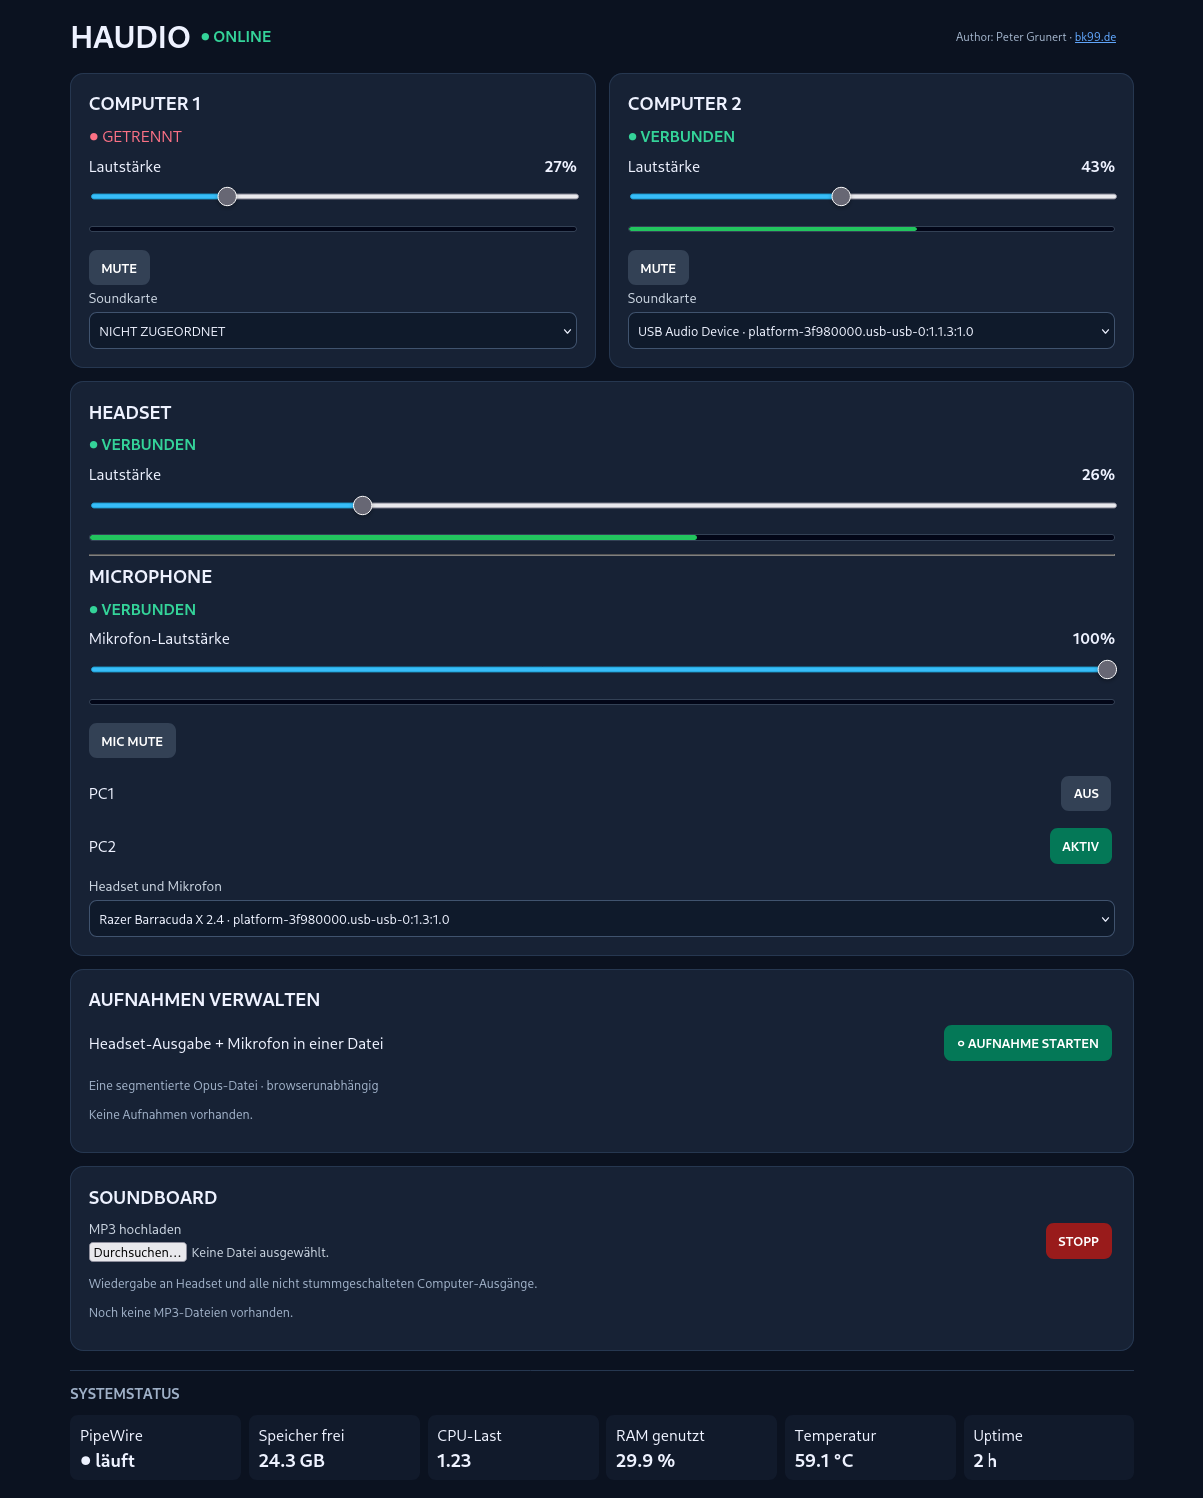
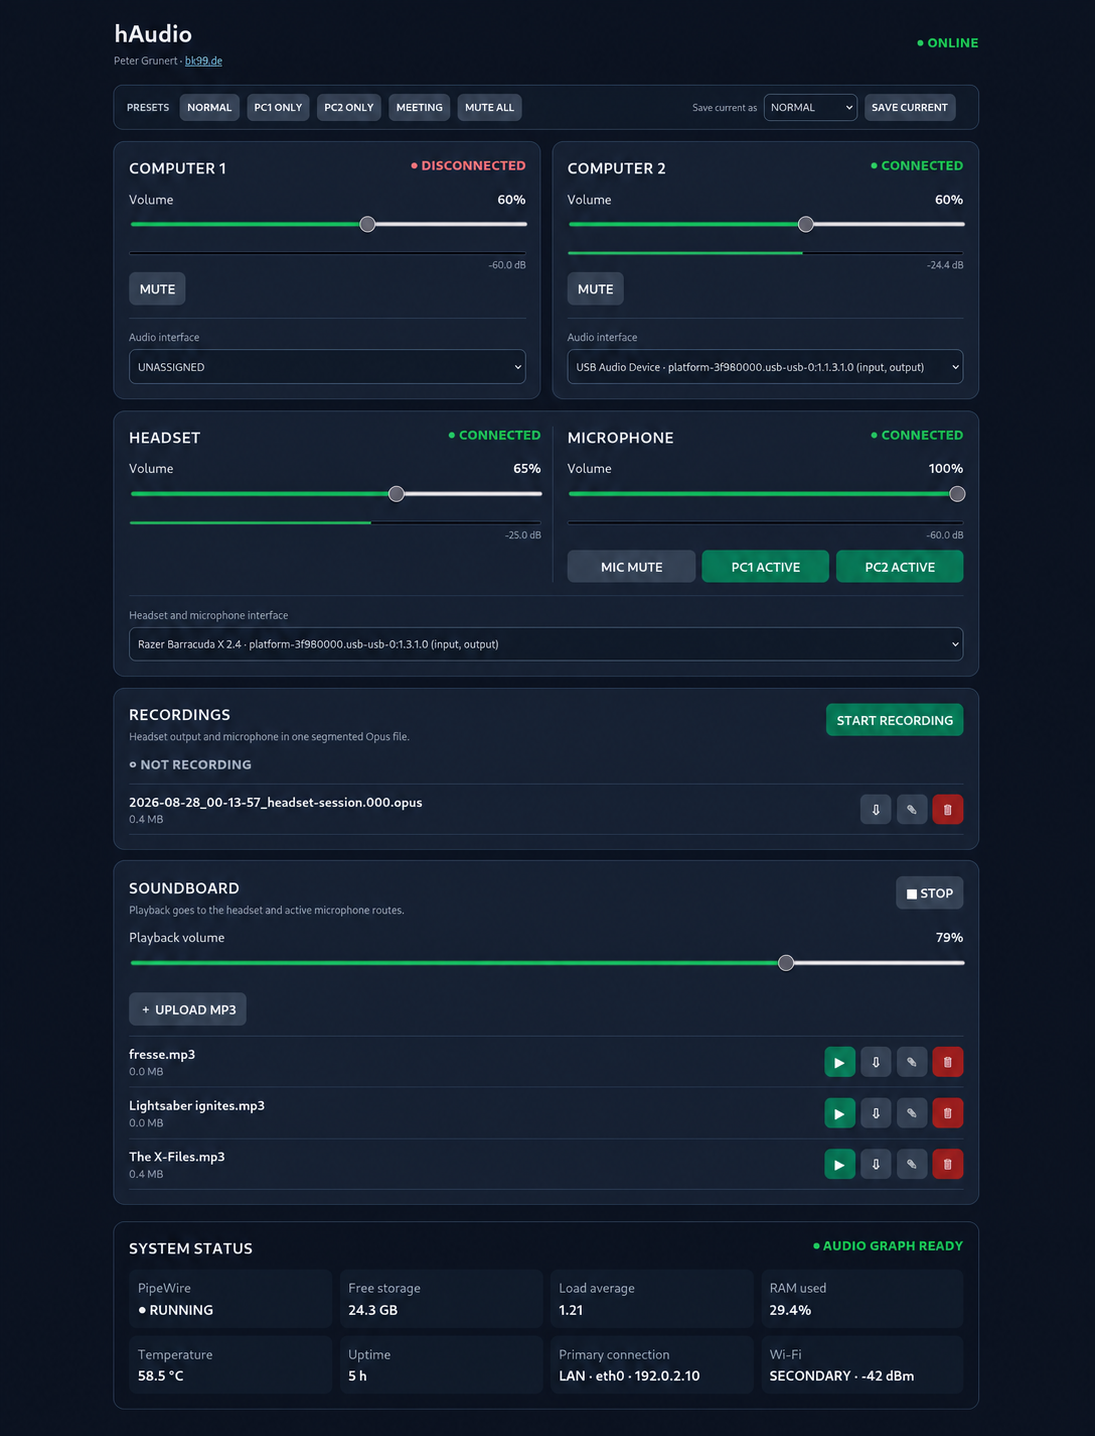
Polish release documentation and live media status

diff --git a/tests/test_haudio.py b/tests/test_haudio.py
@@ -1,3 +1,4 @@
+import asyncio
 import json
 import sys
 from pathlib import Path
@@ -9,7 +10,7 @@ PROJECT_ROOT = Path(__file__).parents[1]
 APP_ROOT = PROJECT_ROOT / "opt" / "haudio"
 sys.path.insert(0, str(APP_ROOT))
 
-from haudio.app import create_app  # noqa: E402
+from haudio.app import Runtime, create_app  # noqa: E402
 from haudio.audio import AudioController, CommandResult  # noqa: E402
 from haudio.config import Config  # noqa: E402
 from haudio.media import valid_recording_filename, valid_sound_filename  # noqa: E402
@@ -129,8 +130,11 @@ class FakeAudio:
 
 
 class FakeMedia:
+    def __init__(self):
+        self.soundboard = {"playing": "", "active": False, "volume": 100}
+
     def soundboard_status(self):
-        return {"playing": "", "active": False, "volume": 100}
+        return dict(self.soundboard)
 
     def recording_active(self):
         return False
@@ -303,6 +307,24 @@ def test_frontend_is_complete_and_uses_stable_dom_updates(tmp_path):
         assert javascript.status_code == 200
         assert "innerHTML" not in javascript.text
         assert "connectWebSocket" in javascript.text
+        assert 'class="button" type="button" aria-pressed="false">■ STOP' in index.text
+        assert "soundboardStop.classList.toggle('danger', soundboardActive)" in javascript.text
+
+
+def test_live_status_uses_actual_soundboard_process_state(tmp_path):
+    config = Config(
+        state_dir=tmp_path / "state", recording_dir=tmp_path / "recordings",
+        soundboard_dir=tmp_path / "sounds", frontend_dir=APP_ROOT / "frontend",
+    )
+    store = StateStore(config.state_file)
+    media = FakeMedia()
+    runtime = Runtime(config, store, FakeAudio(store), media)
+    runtime._status = {"soundboard": {"playing": "stale.mp3", "active": True, "volume": 1}}
+    media.soundboard = {"playing": "", "active": False, "volume": 75}
+
+    status = asyncio.run(runtime.status())
+
+    assert status["soundboard"] == {"playing": "", "active": False, "volume": 75}
 
 
 def test_documentation_and_service_use_generic_user_runtime():

diff --git a/opt/haudio/haudio/app.py b/opt/haudio/haudio/app.py
@@ -284,6 +284,10 @@ class Runtime:
         if not cached:
             cached = await self.refresh_status()
         cached["levels"] = copy.deepcopy(self.meters.levels)
+        # Process state changes faster than the comparatively expensive system
+        # status refresh. Keep playback controls synchronized with the actual
+        # FFmpeg process on every lightweight WebSocket update.
+        cached["soundboard"] = self.media.soundboard_status()
         return cached
 
     async def device_monitor(self) -> None:
@@ -318,13 +322,18 @@ class Runtime:
     async def media_monitor(self) -> None:
         retention_at = 0.0
         while True:
-            await asyncio.to_thread(self.media.poll)
-            if time.monotonic() - retention_at > 3600:
-                try:
+            try:
+                await asyncio.to_thread(self.media.poll)
+                if time.monotonic() - retention_at > 3600:
                     await asyncio.to_thread(self.media.cleanup_recordings)
-                except HTTPException:
-                    pass
+                    retention_at = time.monotonic()
+            except asyncio.CancelledError:
+                raise
+            except HTTPException:
+                # Retention skips an active recording and retries later.
                 retention_at = time.monotonic()
+            except Exception:
+                LOG.exception("Media monitor failed")
             await asyncio.sleep(1)
 
     async def start(self) -> None:

diff --git a/README.md b/README.md
@@ -1,9 +1,13 @@
 # hAudio 0.01 – Audio Routing for Two Computers
 
-Date: 2026-08-27  
-Author: Peter Grunert  
-Website: <https://www.bk99.de>  
-License: GNU General Public License v3.0 or later (GPL-3.0-or-later)
+[![Tests](https://github.com/GiT-BeDa/hAudio/actions/workflows/tests.yml/badge.svg)](https://github.com/GiT-BeDa/hAudio/actions/workflows/tests.yml)
+[![License: GPL v3 or later](https://img.shields.io/badge/license-GPL--3.0--or--later-blue.svg)](LICENSE)
+[![Version](https://img.shields.io/badge/version-0.01-22c55e.svg)](VERSION)
+
+- Updated: 2026-08-28
+- Author: Peter Grunert
+- Website: <https://www.bk99.de>
+- License: GNU General Public License v3.0 or later (GPL-3.0-or-later)
 
 hAudio is a permanently running Raspberry Pi audio-routing system. It mixes
 audio from PC1 and PC2 to a wireless headset and routes the headset microphone
@@ -90,8 +94,9 @@ restores the previous mute/routing state when pressed a second time.
 
 ![hAudio web interface](docs/images/WebInterface.png)
 
-The screenshot is an example deployment. Device names and assignments vary
-depending on the hardware connected to the Raspberry Pi.
+The screenshot shows the current interface from an example deployment. Device
+names and assignments vary with the connected hardware. Its private LAN address
+has been replaced with the documentation-only example address `192.0.2.10`.
 
 The endpoint reference is available in [docs/API.md](docs/API.md).
 The process and failure-boundary design is described in
